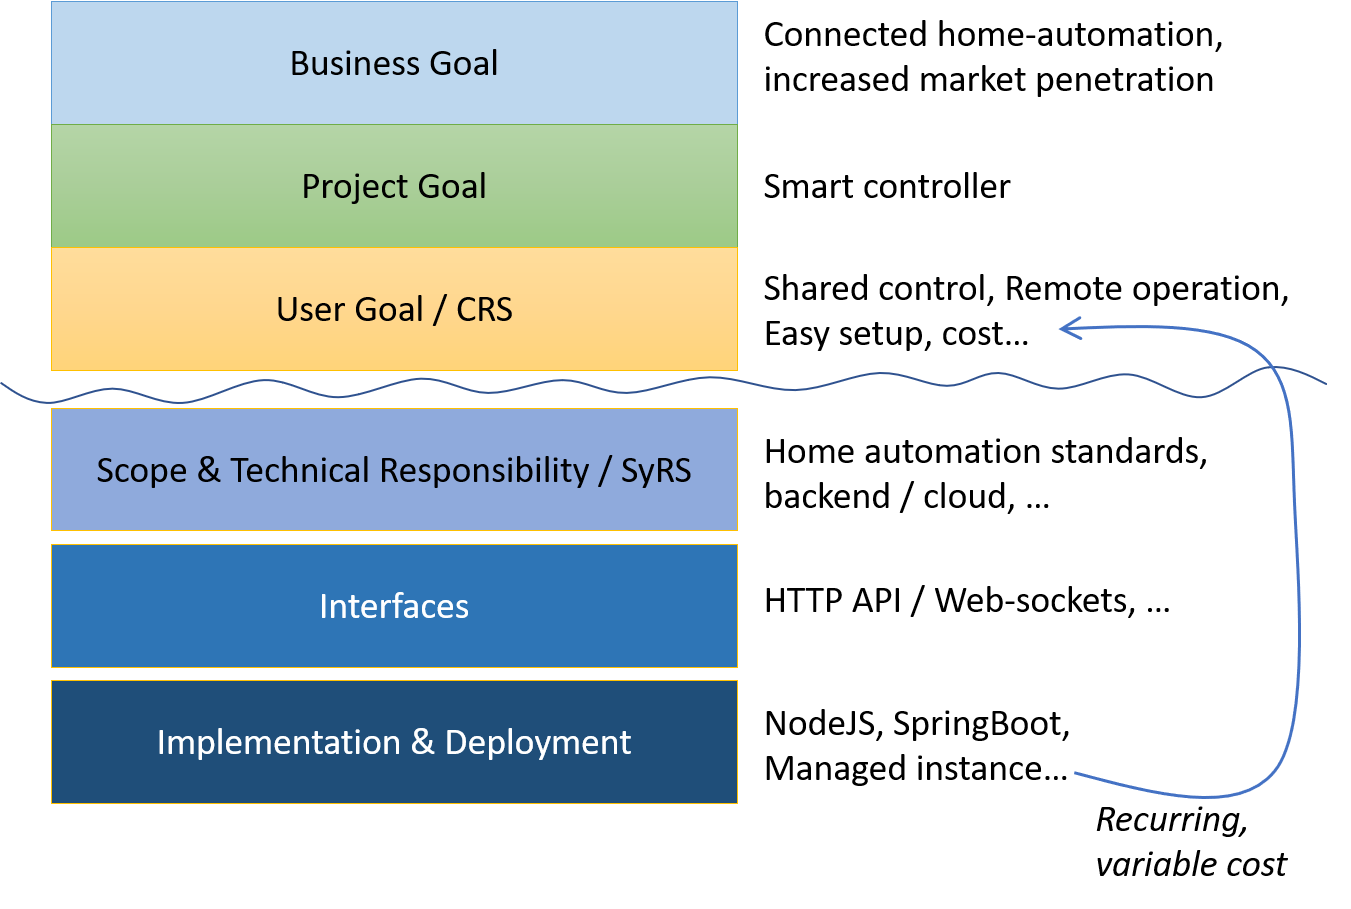
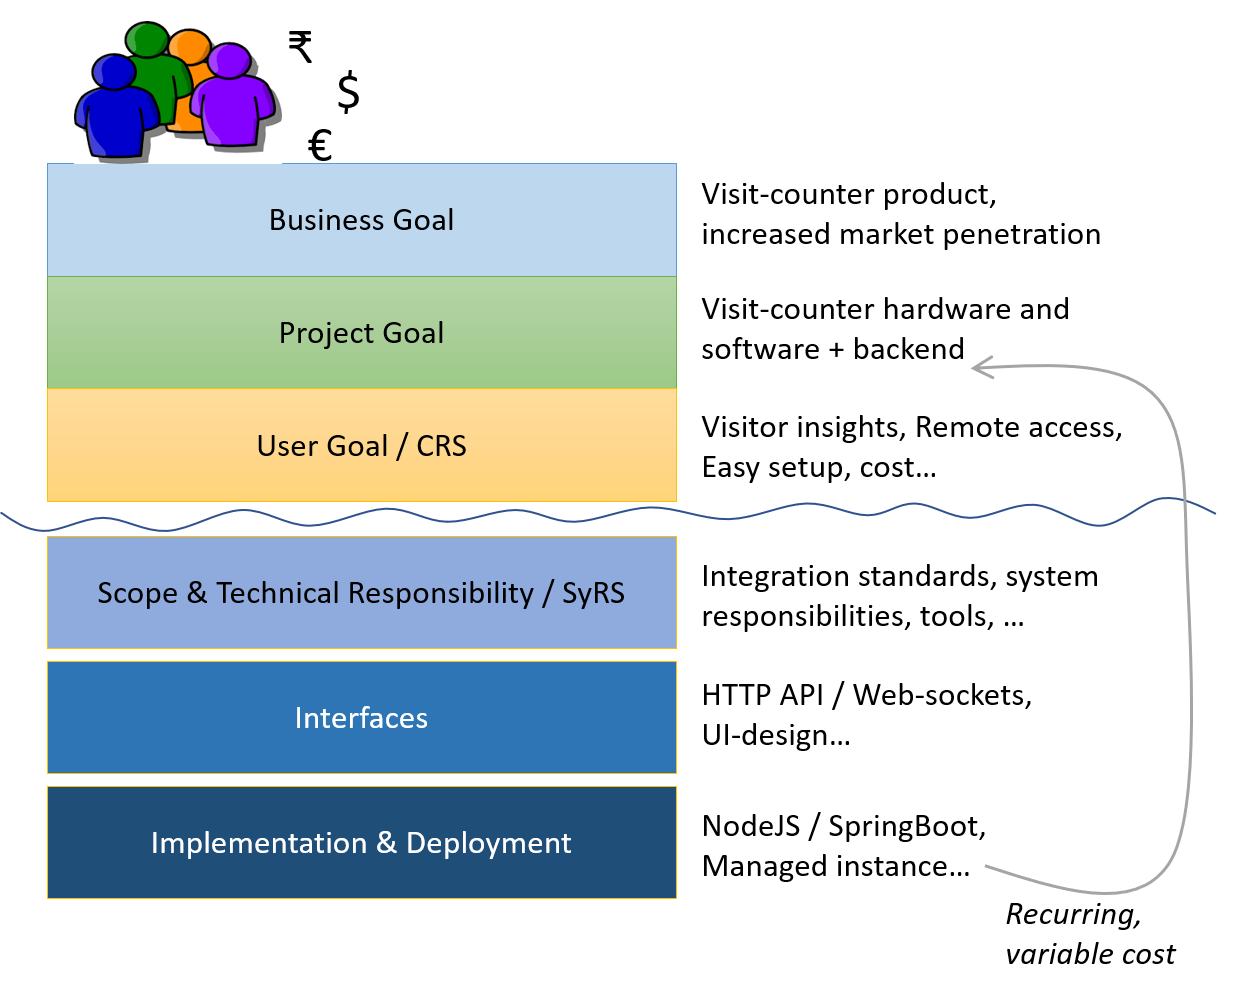
stakeholders value chain

diff --git a/modeling-needs-techniques.md b/modeling-needs-techniques.md
@@ -104,23 +104,31 @@ The Acceptance Criteria can be specified as Scenarios:
 
 ```BDD
 Given a store with an address
-When a store-owner requests installation
-Then the installation is scheduled
+When a store-owner requests installation at 2 PM
+Then the installation is scheduled from 2-6 PM
  And operations is notified
 ```
 
 ```BDD
-Given a store with an entrance
- And the pre-installed hardware
-When field engineer completes installation
+Given wired-up hardware with pre-installed software
+When the field engineer completes first power-up
+ And connects his mobile to the device-hotspot with SSID "v-counter"
 Then ....
 ```
 
 ```BDD
-Given an installed system
+Given an installed, powered-up system
 When a customer visits the store
 Then the visit is recorded
 ```
+
+> Scenarios can bridge stakeholders across the spectrum
+
+<!-- markdownlint-disable MD013 -->
+
+Customer Requirements | System Requirements | Module Requirements | Implementation | Deployment
+---|---|---|---|---
+Report on visit counts | Sensor, API & app with authentication | WebServer, Persistence | Record the visit in MongoDB | One-click container
 
 ### Downstream effects of Scenarios
 

diff --git a/modeling-specification.md b/modeling-specification.md
@@ -5,6 +5,7 @@ Specification: an act of identifying something precisely
 ## The Quality of a Requirement
 
 <!-- markdownlint-disable MD033 -->
+
 <table>
 <tr><td>Essential</td><td>Implementation-free</td><td>Unambiguous*</td>
 </tr>
@@ -42,11 +43,13 @@ Specification: an act of identifying something precisely
 - Uptime?
 - Privacy?
 
-A complete specification is [expensive](form-fit-function.md).
+> A complete specification is [expensive](form-fit-function.md).
+Use [Analogies](modeling-needs-analogy-structure.md)
+for guidance. Relate them to all stakeholders.
 
 ## The way forward
 
 - Mind on the Customer's context
-- Write for Stakeholders
+- Write for your Audience
 
 [Who is my Audience?](modeling-needs-of-stakeholders.md)

diff --git a/modeling-needs-of-stakeholders.md b/modeling-needs-of-stakeholders.md
@@ -8,6 +8,10 @@
 
 `Exercise: List the stakeholders in your project`
 
+## Customer Value-chain
+
+![custvalue](images/value-chain-count-to-loyalty.png "customer value")
+
 ## Mapping Stakeholders
 
 ![value-chain](images/value-chain.png "value chain")
